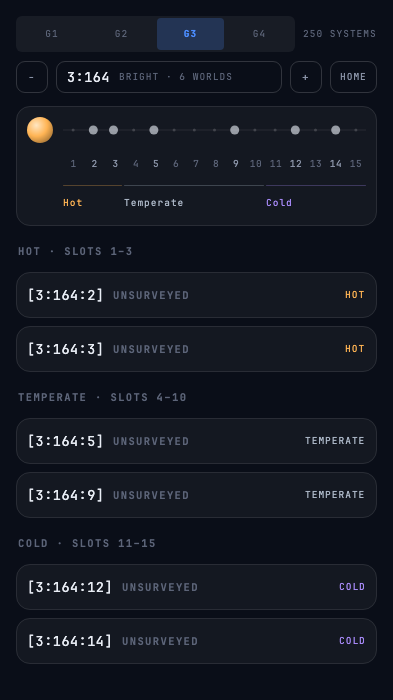
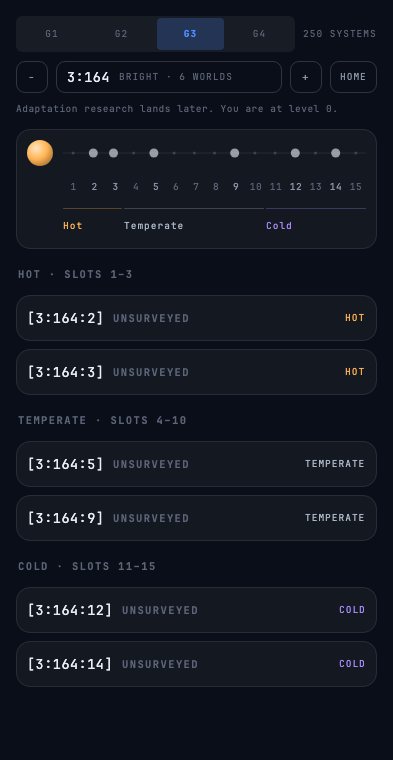
The Blocked row states its worth, and stops selling what Research hasn't got
98.2% of surveyed worlds are Blocked by design, so a home system is ~93%
likely to show nothing but BLOCKED. The verdict was right; the screen
never explained it. Presentation only — no GalaxyBalance number moves.

- Blocked carries its yield, so the row states a worth and not only a
  cost. All three blocked worlds in the sim seed's home system out-yield
  the threshold, which is the pillar landing, and nothing said so.
- Blocked counts the bands it fails against the bar Barren already
  quotes — "Fails 2 of 3 bands, worth it at 0.92" — so a screen of them
  reads as the distribution rather than as bad luck. The clause is
  written once for both verdicts.
- The technology drops from accent to textSecondary: accent is the only
  "go tap this" on the screen, and Research sells PHOTOVOLTAICS,
  EXTRACTION and ENRICHMENT, never Thermal, Gravitic or Atmospheric.
- The header says so outright, as PLACEHOLDER copy beside RELAY_EFFECT:
  "Adaptation research lands later. You are at level 0."

Both copy calls were Davide's and were delegated to the build.

Six galaxy baselines re-recorded; the capture windows grew with the
rows. ./gradlew check and verifyRoborazziDesktop green, 0.0.16.

diff --git a/client/galaxy/presentation/src/commonMain/kotlin/dev/fardavide/oltre/client/galaxy/presentation/GalaxyUiState.kt b/client/galaxy/presentation/src/commonMain/kotlin/dev/fardavide/oltre/client/galaxy/presentation/GalaxyUiState.kt
@@ -49,6 +49,10 @@ data class GalaxyUiState(
     // number or a name — and it is authored rather than left to an ellipsis, because "4 WO…" is the
     // layout admitting defeat where "DIM · 4" is the screen still saying something true.
     val compactDetail: String,
+    // Constant, and it stays on the header rather than on the rows that earn it: every `Blocked`
+    // row names a technology, and there are more of them on this screen than anything else, so the
+    // one place the caveat is said once is above them all.
+    val adaptationState: String,
     val atFirstSystem: Boolean,
     val atLastSystem: Boolean,
     val isHome: Boolean,
@@ -92,7 +96,18 @@ sealed interface VerdictUiState {
 
     // Never empty, and in `HostilityAxis` order rather than by the size of the gap, so the third
     // line is in the same place on every three-axis world.
-    data class Blocked(val failures: List<BlockedAxisUiState>, val detail: String) : VerdictUiState {
+    //
+    // It carries a yield and a calibration line for the same reason `Barren` does, and it needs
+    // them more: 98% of surveyed worlds read `Blocked`, so this is the verdict a player meets over
+    // and over. Without the yield the row stated a cost and never a worth; without the count and
+    // the bar, a screen of them reads as bad luck rather than as the design — which is the exact
+    // job `Barren`'s threshold sentence already does.
+    data class Blocked(
+        val failures: List<BlockedAxisUiState>,
+        val yieldLabel: String,
+        val calibration: String,
+        val detail: String,
+    ) : VerdictUiState {
         init {
             require(failures.isNotEmpty()) { "a blocked row must name at least one axis" }
         }
@@ -124,6 +139,23 @@ data class BlockedAxisUiState(
 // states an effect no mechanic can yet confer — there is no way to hold one until multiplayer — so
 // this is the line the design flagged as its fifth open call.
 private const val RELAY_EFFECT = "+18% range while held"
+
+// PLACEHOLDER copy, on the same terms as `RELAY_EFFECT` above and the unbuilt tabs' one-liners,
+// and in the same voice — "Ship construction lands here." Every `Blocked` row names an adaptation
+// technology, and Research sells three technologies, none of which is one of those: the ladders are
+// their own slice and Davide's call per the galaxy sheet's open list. So the sentence on the row is
+// true and cannot be acted on, and the screen says which of those two it is. It goes when the
+// ladders land, not before.
+// Second person because the rows are already in it — "you tolerate 1.40 g" — and because the fact
+// that matters to a player reading a blocked row is where *they* stand. It is also what keeps the
+// line unwrapped at 393dp: "Every empire is at level 0." broke after "level", which leaves "0."
+// alone on a line and reads as a defect rather than as a wrap.
+private const val ADAPTATION_STATE = "Adaptation research lands later. You are at level 0."
+
+// Written once because `Blocked` and `Barren` both quote it, and two rows on one screen disagreeing
+// about the bar would be the screen contradicting itself. It is the number `verdictFor` actually
+// decides by, not a string that looks like it.
+private val WORTH_IT_AT = "worth it at ${GalaxyBalance.WORTH_IT_THRESHOLD.perMillion.perMillion()}"
 
 internal fun GalaxyState.toGalaxyUiState(
     at: SystemSelection,
@@ -162,6 +194,7 @@ internal fun GalaxyState.toGalaxyUiState(
         coordinate = "${at.galaxy}:${at.system}",
         detail = detailFor(starClass, worlds.count { it.value != null }, compact = false),
         compactDetail = detailFor(starClass, worlds.count { it.value != null }, compact = true),
+        adaptationState = ADAPTATION_STATE,
         atFirstSystem = at.system <= 1,
         atLastSystem = at.system >= GalaxyBalance.SYSTEMS_PER_GALAXY,
         isHome = at.galaxy == home.galaxy && at.system == home.system,
@@ -210,11 +243,17 @@ private fun WorldVerdict.toUiState(traits: WorldTraits): VerdictUiState = when (
     WorldVerdict.Unsurveyed -> VerdictUiState.Unsurveyed
     is WorldVerdict.Blocked -> VerdictUiState.Blocked(
         failures = failures.map { it.toUiState() },
+        yieldLabel = "yield ${traits.yieldLabel()}",
+        // The count comes from the row rather than from a table, and the bar is the one `Barren`
+        // quotes — a blocked world reading its yield against the same 0.92 is what turns the row
+        // into the shopping list the sheet asked for: the world is worth taking, the band is not
+        // wide enough yet, and the line above says what widens it.
+        calibration = "Fails ${failures.size} of ${HostilityAxis.entries.size} bands, $WORTH_IT_AT",
         detail = listOfNotNull(traits.fieldsLabel(), traits.hazardLabel(null)).joinToString(SEPARATOR),
     )
     WorldVerdict.Barren -> VerdictUiState.Barren(
         yieldLabel = "yield ${traits.yieldLabel()}",
-        threshold = "Passes every band, worth it at ${GalaxyBalance.WORTH_IT_THRESHOLD.perMillion.perMillion()}",
+        threshold = "Passes every band, $WORTH_IT_AT",
         detail = listOfNotNull(traits.fieldsLabel(), traits.hazardLabel(null)).joinToString(SEPARATOR),
     )
     is WorldVerdict.Settleable -> VerdictUiState.Settleable(

diff --git a/client/galaxy/presentation/src/commonTest/kotlin/dev/fardavide/oltre/client/galaxy/presentation/GalaxyUiStateTest.kt b/client/galaxy/presentation/src/commonTest/kotlin/dev/fardavide/oltre/client/galaxy/presentation/GalaxyUiStateTest.kt
@@ -98,6 +98,45 @@ class GalaxyUiStateTest {
     }
 
     @Test
+    fun `a blocked world states what it is worth and not only what it costs`() {
+        // The pillar on one row: all three of the home system's blocked worlds out-yield the
+        // worth-it threshold, so what stands between the player and them is a technology rather
+        // than the world. A row that named the cost and never the worth left that unsaid.
+        val uiState = galaxy().toGalaxyUiState(at = homeSelection())
+        val blocked = assertIs<VerdictUiState.Blocked>(
+            uiState.bands.flatMap { it.rows }.first { it.slot == 8 }.verdict,
+        )
+
+        // Over the 0.92 its own calibration line names, which is the pillar in one row.
+        assertEquals("yield 1.05", blocked.yieldLabel)
+    }
+
+    @Test
+    fun `a blocked world counts the bands it fails against the same bar Barren names`() {
+        // Barren's threshold sentence is what makes a bad answer read as a scale rather than as
+        // bad luck, and 98% of surveyed worlds are Blocked — so it is the verdict that needs the
+        // calibration most. The bar is the one core actually applies, quoted identically on both.
+        val uiState = galaxy().toGalaxyUiState(at = homeSelection())
+        val rows = uiState.bands.flatMap { it.rows }
+
+        val twoAxes = assertIs<VerdictUiState.Blocked>(rows.first { it.slot == 8 }.verdict)
+        val threeAxes = assertIs<VerdictUiState.Blocked>(rows.first { it.slot == 13 }.verdict)
+
+        assertEquals("Fails 2 of 3 bands, worth it at 0.92", twoAxes.calibration)
+        assertEquals("Fails 3 of 3 bands, worth it at 0.92", threeAxes.calibration)
+    }
+
+    @Test
+    fun `the header says the ladders every blocked row points at are not built yet`() {
+        // Every `Blocked` row names a technology Research cannot sell, because all three adaptation
+        // ladders are unbuilt. The sentence on the row is true; the screen owes the player the
+        // reason it cannot be acted on.
+        val uiState = galaxy().toGalaxyUiState(at = homeSelection())
+
+        assertEquals("Adaptation research lands later. You are at level 0.", uiState.adaptationState)
+    }
+
+    @Test
     fun `the unit is written once on the tolerance and not on the reading`() {
         // Both numbers are the same axis and therefore the same unit, and the four characters that
         // saves are what keep the technology on the line at 393dp.

diff --git a/client/galaxy/presentation/src/desktopTest/kotlin/dev/fardavide/oltre/client/galaxy/presentation/GalaxyScreenScreenshotTest.kt b/client/galaxy/presentation/src/desktopTest/kotlin/dev/fardavide/oltre/client/galaxy/presentation/GalaxyScreenScreenshotTest.kt
@@ -17,19 +17,19 @@ class GalaxyScreenScreenshotTest {
 
     @Test
     fun `the home system at phone width`() {
-        capture(width = 393, height = 1000, uiState = homeSystemUiState, name = "galaxy_home_system")
+        capture(width = 393, height = 1140, uiState = homeSystemUiState, name = "galaxy_home_system")
     }
 
     // The state 249 systems out of 250 are in on the day this ships. It is the screen, not a stage
     // before the screen, so it gets a baseline of its own.
     @Test
     fun `an unsurveyed system at phone width`() {
-        capture(width = 393, height = 700, uiState = unsurveyedSystemUiState, name = "galaxy_unsurveyed")
+        capture(width = 393, height = 760, uiState = unsurveyedSystemUiState, name = "galaxy_unsurveyed")
     }
 
     @Test
     fun `every verdict at phone width`() {
-        capture(width = 393, height = 1080, uiState = everyVerdictUiState, name = "galaxy_every_verdict")
+        capture(width = 393, height = 1180, uiState = everyVerdictUiState, name = "galaxy_every_verdict")
     }
 
     // 320dp is narrower than any phone and reachable since the app became a real iPad app. The
@@ -37,17 +37,17 @@ class GalaxyScreenScreenshotTest {
     // taller here for exactly that reason.
     @Test
     fun `the home system in a Slide Over window`() {
-        capture(width = 320, height = 1160, uiState = homeSystemUiState, name = "galaxy_home_system_slide_over")
+        capture(width = 320, height = 1400, uiState = homeSystemUiState, name = "galaxy_home_system_slide_over")
     }
 
     @Test
     fun `an unsurveyed system in a Slide Over window`() {
-        capture(width = 320, height = 760, uiState = unsurveyedSystemUiState, name = "galaxy_unsurveyed_slide_over")
+        capture(width = 320, height = 840, uiState = unsurveyedSystemUiState, name = "galaxy_unsurveyed_slide_over")
     }
 
     @Test
     fun `every verdict in a Slide Over window`() {
-        capture(width = 320, height = 1260, uiState = everyVerdictUiState, name = "galaxy_every_verdict_slide_over")
+        capture(width = 320, height = 1400, uiState = everyVerdictUiState, name = "galaxy_every_verdict_slide_over")
     }
 
     // Erring tall costs a band of empty background; erring short silently clips the last row out of

diff --git a/client/galaxy/presentation/src/commonMain/kotlin/dev/fardavide/oltre/client/galaxy/presentation/WorldList.kt b/client/galaxy/presentation/src/commonMain/kotlin/dev/fardavide/oltre/client/galaxy/presentation/WorldList.kt
@@ -80,6 +80,7 @@ private fun WorldRow(row: WorldRowUiState, compact: Boolean) {
             VerdictUiState.Unsurveyed -> Unit
             is VerdictUiState.Blocked -> {
                 BlockedAxes(failures = verdict.failures)
+                Detail(text = verdict.calibration, color = OltreColors.textSecondary)
                 Detail(text = verdict.detail, color = OltreColors.textTertiary)
             }
             is VerdictUiState.Barren -> {
@@ -165,12 +166,14 @@ private fun BlockedAxes(failures: List<BlockedAxisUiState>) {
                     lineHeight = 15.sp,
                     modifier = Modifier.weight(1f),
                 )
-                // Accent, because it is the only thing on this screen that points at another tab.
-                // Every empire is at level 0 today, so all of these are purchases that do not exist
-                // yet — the row is a promise, and the accent is what makes it look like one.
+                // Not accent, and that is the correction: accent is the screen's only "go tap this"
+                // signal, and Research sells PHOTOVOLTAICS, EXTRACTION and ENRICHMENT — never one of
+                // these. Dressing an unbuyable ladder as a call to action sends the player to a tab
+                // that cannot answer. It reads as what it is until the ladders exist: the name of
+                // the thing that would land this world.
                 Text(
                     text = failure.technology,
-                    color = OltreColors.accent,
+                    color = OltreColors.textSecondary,
                     fontFamily = mono,
                     fontSize = 10.5.sp,
                     lineHeight = 15.sp,
@@ -253,7 +256,10 @@ private fun VerdictUiState.hue(): Color = when (this) {
     is VerdictUiState.Relay -> OltreColors.accent
 }
 
+// Every surveyed verdict that has one, which now includes `Blocked`: a row that named the cost and
+// never the worth was half a verdict, and on this screen it was the half the player sees most.
 private fun VerdictUiState.yieldLabel(): String? = when (this) {
+    is VerdictUiState.Blocked -> yieldLabel
     is VerdictUiState.Barren -> yieldLabel
     is VerdictUiState.Settleable -> yieldLabel
     else -> null

diff --git a/client/galaxy/presentation/src/desktopTest/kotlin/dev/fardavide/oltre/client/galaxy/presentation/GalaxyScreenBehaviourTest.kt b/client/galaxy/presentation/src/desktopTest/kotlin/dev/fardavide/oltre/client/galaxy/presentation/GalaxyScreenBehaviourTest.kt
@@ -134,6 +134,29 @@ class GalaxyScreenBehaviourTest {
     }
 
     @Test
+    fun `Blocked states its worth and the bar it would be measured against`() {
+        // 98% of surveyed worlds read Blocked, so this is the row that most needs what Barren's
+        // threshold sentence does: a scale, so the answer reads as the design rather than as bad
+        // luck. The yield beside it is what makes the count mean something — this world clears the
+        // bar, and only the technology stands between.
+        galaxyScreen(uiState = homeSystemUiState) {
+            assertRowReads(8, "yield 1.05")
+            assertRowReads(8, "Fails 2 of 3 bands, worth it at 0.92")
+            assertRowReads(13, "Fails 3 of 3 bands, worth it at 0.92")
+        }
+    }
+
+    @Test
+    fun `the screen says the ladders its blocked rows point at are not built yet`() {
+        // The technology on a blocked row is a purchase Research cannot sell: all three adaptation
+        // ladders are unbuilt. Marked PLACEHOLDER in the mapper, in the voice the unbuilt tabs use.
+        galaxyScreen(uiState = homeSystemUiState) {
+            assertReads("Adaptation research lands later.")
+            assertReads("You are at level 0.")
+        }
+    }
+
+    @Test
     fun `an unsurveyed world gives away nothing but its coordinate and its orbit`() {
         // The honest default: on the day this ships almost every world reads exactly this, and a
         // row that leaked a trait would have performed the survey the player has not paid for.

diff --git a/client/galaxy/presentation/src/commonMain/kotlin/dev/fardavide/oltre/client/galaxy/presentation/GalaxyNav.kt b/client/galaxy/presentation/src/commonMain/kotlin/dev/fardavide/oltre/client/galaxy/presentation/GalaxyNav.kt
@@ -78,6 +78,21 @@ internal fun GalaxyNav(
             )
             HomeButton(isHome = uiState.isHome, onGoHome = onGoHome)
         }
+        // Sentence case and tertiary, which is the voice the unbuilt tabs use for the same job:
+        // saying what is not built yet without dressing it as a thing to do. It sits under the
+        // coordinate rather than on the rows because every blocked row would otherwise repeat it,
+        // and it wraps rather than abbreviating — a caveat that lost half its words would be worse
+        // than no caveat.
+        // 9.5sp is the nav's own tertiary size — the one the scope and the star class already use —
+        // and it is also what keeps both sentences on one line at 393dp. At 320dp it wraps, which
+        // is the same thing the blocked rows do at that width.
+        Text(
+            text = uiState.adaptationState,
+            color = OltreColors.textTertiary,
+            fontFamily = oltreMono(),
+            fontSize = 9.5.sp,
+            lineHeight = 14.sp,
+        )
     }
 }
 

diff --git a/client/galaxy/presentation/src/desktopTest/kotlin/dev/fardavide/oltre/client/galaxy/presentation/TestGalaxyUiState.kt b/client/galaxy/presentation/src/desktopTest/kotlin/dev/fardavide/oltre/client/galaxy/presentation/TestGalaxyUiState.kt
@@ -46,6 +46,7 @@ internal val everyVerdictUiState = GalaxyUiState(
     coordinate = "2:118",
     detail = "BRIGHT · 6 worlds",
     compactDetail = "BRIGHT · 6",
+    adaptationState = "Adaptation research lands later. You are at level 0.",
     atFirstSystem = false,
     atLastSystem = false,
     isHome = false,
@@ -102,6 +103,10 @@ internal val everyVerdictUiState = GalaxyUiState(
                     band = OrbitBand.TEMPERATE,
                     verdict = VerdictUiState.Blocked(
                         failures = listOf(blocked("gravity", "2.40", "1.40", "g", "Gravitic 9")),
+                        // Over the bar its own calibration line names, which is the pillar in one
+                        // row: the good ground is behind the technology nobody has bought.
+                        yieldLabel = "yield 1.04",
+                        calibration = "Fails 1 of 3 bands, worth it at 0.92",
                         detail = "118 fields · ion storms",
                     ),
                 ),

diff --git a/.claude/docs/decisions.md b/.claude/docs/decisions.md
@@ -1039,3 +1039,44 @@ no-baseline skip and the enforce exit codes. `coverage.py` is loaded by path the
 **Known hole: a cache miss skips the gate.** No restored baseline means a `skipped` verdict and a
 green job. The comment and the log both say so, but nothing blocks. Accepted for now — the
 alternative is failing PRs for an infrastructure hiccup that has nothing to do with their tests.
+
+## A `Blocked` row states its worth, and stops pretending it can be bought
+
+0.0.16, presentation only. 98.2% of surveyed worlds are `Blocked` by design — `GalaxyDistributionTest`
+pins "passes every band" at 1.81% — so a home system is ~93% likely to show nothing but BLOCKED.
+**The verdict is correct and the screen did not explain it.** Four changes, none of which touches a
+`GalaxyBalance` number: the distribution is a settled call, `balance-log.md` round 5.
+
+**The row now says what the world is worth, not only what it costs.** `yieldLabel()` returned null
+for `Blocked`, so the one verdict a player meets over and over was the one that never priced itself.
+All three blocked worlds in the sim seed's home system out-yield the threshold, which is the pillar
+landing — and the row was the only place that could say so.
+
+**It counts the bands it fails against the bar `Barren` already names.** "Fails 2 of 3 bands, worth
+it at 0.92", beside "Passes every band, worth it at 0.92". Barren's threshold sentence is what makes
+a bad answer read as a scale rather than as bad luck, and `Blocked` is the verdict that needs it
+more. The clause is written once in the mapper for both: two rows on one screen disagreeing about
+the bar would be the screen contradicting itself. **No new number was invented** — the alternative
+copy quoted the measured 1.81% pass rate, which no `core` constant carries and which the sheet pins
+only as a 1–2% band.
+
+**The technology dropped from `OltreColors.accent` to `textSecondary`.** Accent is the screen's only
+"go tap this" signal, and Research sells PHOTOVOLTAICS, EXTRACTION and ENRICHMENT — never Thermal,
+Gravitic or Atmospheric. Dressing an unbuyable ladder as a call to action sends a player to a tab
+that cannot answer. 0.0.15's own comment argued the opposite ("the row is a promise, and the accent
+is what makes it look like one"); a promise the app cannot keep is what accent must not mean.
+
+**The header says which of the two it is:** *"Adaptation research lands later. You are at level 0."*
+PLACEHOLDER copy, marked as such beside `RELAY_EFFECT`, in the unbuilt tabs' voice. It sits on the
+header rather than on the rows because every blocked row would otherwise repeat it. Second person
+because the rows are already in it — "you tolerate 1.40 g" — and because "Every empire is at level 0."
+wrapped after "level" at 393dp, leaving "0." alone on a line.
+
+**Both copy calls were Davide's and were delegated to the build**, 2026-08-07, in the same shape as
+the balance round: the options were put with their costs and the answer was "decide for me". His to
+overrule, like every line of the sheet.
+
+Out of scope and still open: adding the three adaptation technologies to Research (its own slice,
+his call per the galaxy sheet), and any survey action (slice #7). Until the first of those lands the
+sentence on the row stays a shopping list nobody can spend against — which is now stated rather than
+implied.

diff --git a/.claude/docs/status.md b/.claude/docs/status.md
@@ -1,6 +1,6 @@
 # Status
 
-Updated: 2026-08-07 (0.0.15)
+Updated: 2026-08-07 (0.0.16)
 
 ## Landed
 
@@ -106,6 +106,12 @@ Updated: 2026-08-07 (0.0.15)
   empty-state baseline moved to Shipyard. See `decisions.md` for why the system selector is the
   feature's state rather than the shell's, and for the three design calls still open.
 
+- **0.0.16 the Blocked row explains itself** — presentation only, no balance number touched. The
+  row states its yield as well as its cost, counts the bands it fails against the same 0.92 bar
+  `Barren` quotes, drops the accent from a technology Research cannot sell, and the header carries
+  a PLACEHOLDER line saying the adaptation ladders are not built. Both copy calls were Davide's,
+  delegated to the build. See `decisions.md`.
+
 ## Roadmap — v1 in vertical slices
 
 The v1 feature set from Notion is *3 resources, 6 buildings, 4 ship types, one research branch,
@@ -187,6 +193,11 @@ real failure) have nothing to act on without it. Whether it is v1 or v1.1 is Dav
   adaptation ladders are unbuilt, so the sentence is true and the purchase does not exist. The
   connection the design is after does not close until the adaptation technologies land — which is
   its own slice, and Davide's call per the galaxy sheet's own open list.
+  **Half-answered at 0.0.16**: the screen no longer pretends otherwise — the technology lost the
+  accent that made it look tappable, and the header says "Adaptation research lands later. You are
+  at level 0." The row also states its yield and counts the bands it fails against the bar `Barren`
+  names, so a screen of BLOCKED reads as the distribution rather than as bad luck. What is still
+  open is the purchase itself.
 
 - Android app entry point (thin `androidApp`-style module) — when Android delivery matters. Two
   stubs are waiting on it: `AndroidSaveLocation.directory` and the no-op notification scheduler.

diff --git a/README.md b/README.md
@@ -120,6 +120,19 @@ Edit `art/icon/*.svg`, rerun, commit the result — never hand-edit generated PN
 
 ## Changelog
 
+### 0.0.16 — 2026-08-07
+
+- **A blocked world now says what it is worth, not only what it costs.** The yield sits beside the
+  verdict, so a world you cannot reach is one you can price: most of the ones in your home system
+  are richer than home.
+- **A screen full of BLOCKED reads as the galaxy rather than as bad luck.** Each row counts the
+  bands it fails against the same bar a barren world names — "Fails 2 of 3 bands, worth it at
+  0.92" — so the answer has a scale behind it. Nearly every surveyed world fails at least one band,
+  and that is the design.
+- **The Galaxy tab admits that the technology it names cannot be bought yet.** The adaptation
+  ladders every blocked row points at are not built, so the header says so and the technology on
+  the row no longer wears the colour the app uses for "go and tap this".
+
 ### 0.0.15 — 2026-08-07
 
 - **The galaxy exists.** Four galaxies of 250 systems, fifteen orbits each — about 4,700 worlds, all
